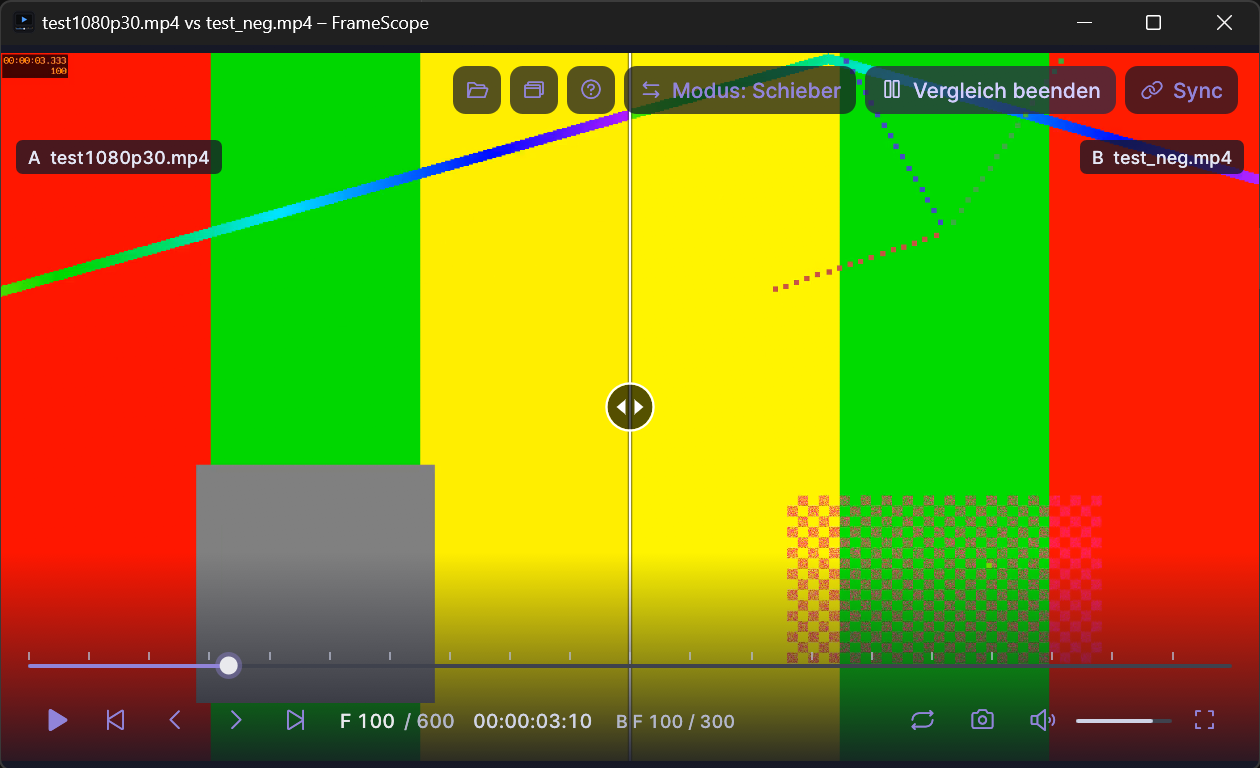
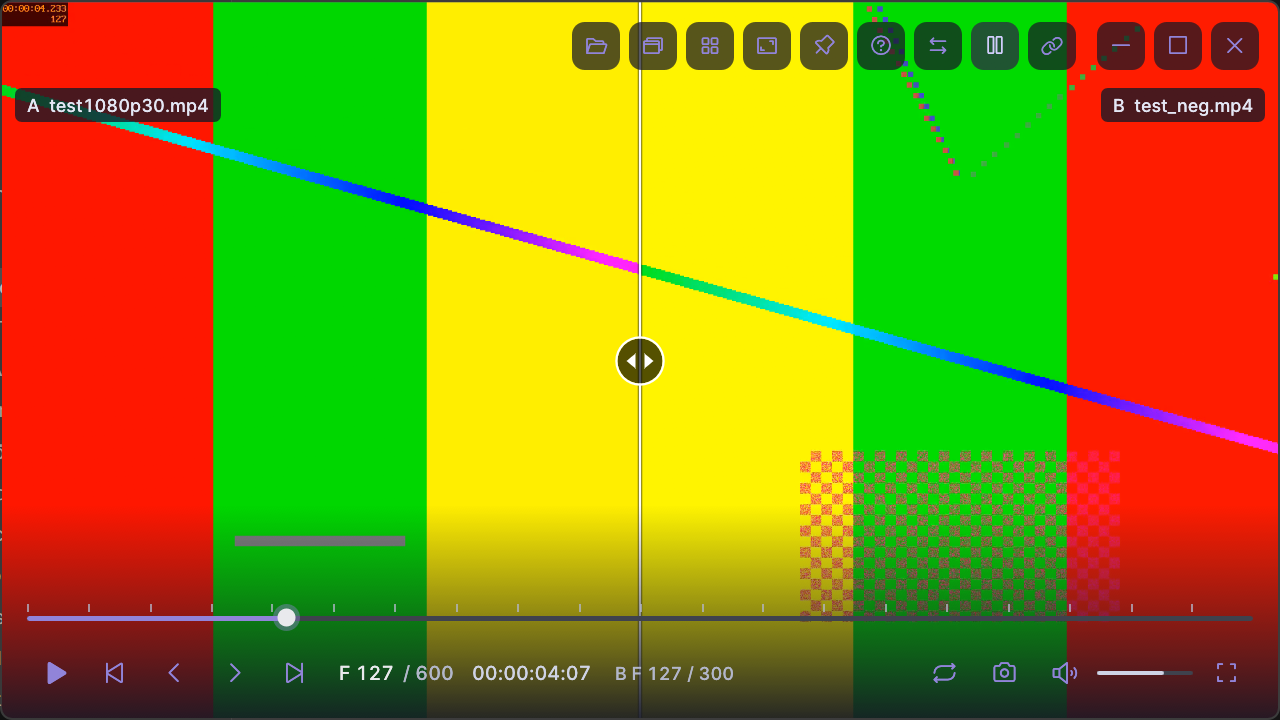
docs: README um neue Features ergaenzt, Screenshots mit rahmenlosem Fenster

diff --git a/README.md b/README.md
@@ -3,9 +3,11 @@
 Schlanker, portabler Videoplayer für Windows 11 mit Fokus auf **frame-genaue Analyse und Vergleich** –
 geschrieben in Rust. Kein Installer, keine Registry-Einträge, keine Daten in `%APPDATA%`: ZIP entpacken und starten.
 
-![Screenshot: Wiedergabe mit Loop-Bereich und Info-Overlay](docs/screenshots/player.png)
+![Screenshot: rahmenloses Fenster mit Loop-Bereich, KEY-Marke und Info-Overlay](docs/screenshots/player.png)
 
 ![Screenshot: A/B-Vergleich mit Schieber](docs/screenshots/compare.png)
+
+*Beide Screenshots zeigen synthetische Testclips; das Fenster hat keine Titelleiste, die Bedienelemente erscheinen bei Mausbewegung.*
 
 ## Features
 
@@ -20,6 +22,10 @@ geschrieben in Rust. Kein Installer, keine Registry-Einträge, keine Daten in `%
 - **Mehrere Instanzen** zum Vergleichen: jedes Fenster ist ein eigener Prozess (`Strg+N`)
 - **A/B-Vergleich** zweier Videos in einem Fenster: Schieber über dem Bild, Nebeneinander, Überblenden
 - **Synchronisierte Wiedergabe** mehrerer Fenster (Play, Pause, Seek, Einzelbild, Loop-Sprünge)
+- **Fenster anordnen**: alle offenen FrameScope-Fenster auf Knopfdruck gleich groß und lückenlos im Raster (2–3 übereinander, 4 im 2×2-Raster, …)
+- **Rahmenloses Fenster** ohne Titelleiste – nur das Bild; Fenstersteuerung, Verschieben (Ziehen im Bild) und Größenänderung am Rand
+- **Immer im Vordergrund** (Pin-Button, `T`) und **Originalgröße** (Button, `1`): Fenster auf die Videoauflösung setzen, 1 Videopixel = 1 Bildschirmpixel
+- **Klick ins Bild** startet/pausiert die Wiedergabe
 - **Portable** und **Dark-UI** („Nocturne“): Controls blenden sich bei Inaktivität aus, Video im Vordergrund
 
 ## Bedienung
